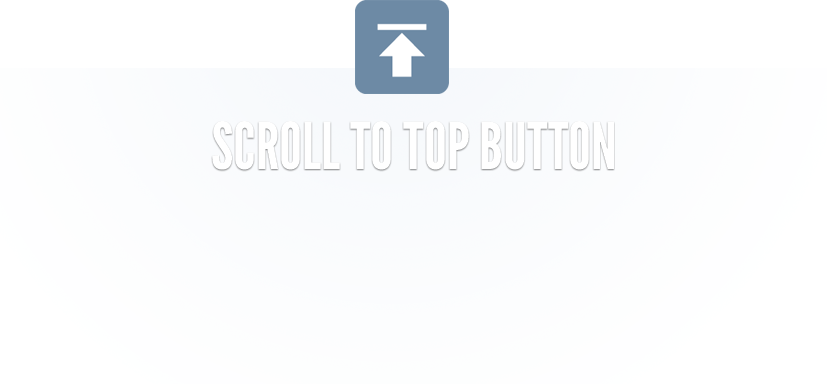
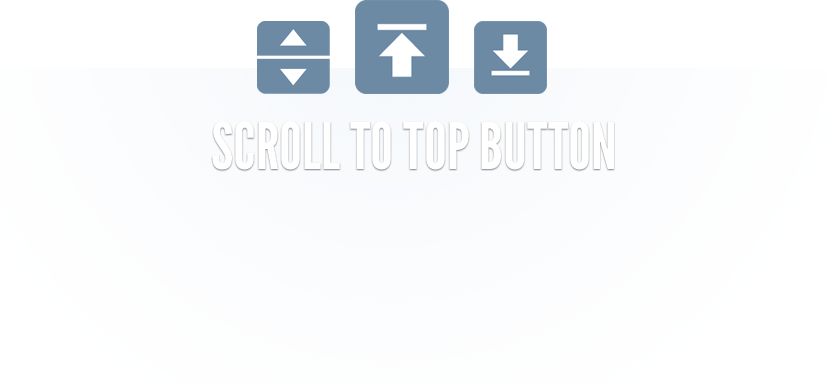
Version 4 Final

Changed region(s): [[0.3023, 0.0312, 0.4232, 0.25], [0.5744, 0.0312, 0.6651, 0.25]]

diff --git a/options.html b/options.html
@@ -213,17 +213,18 @@ function textChange(){
 	<div id="headerTitle"></div>
 	<div id="content">
 <Div id="welcome"><center><p id="header">Welcome to Version 4!</p></center>
-<strong><p class="version">What is new:</p>
+<strong><p class="version">New Stuff:</p>
 <ul class="features">
   <li>Dual button mode! Scroll to the top or the bottom!</li>
-  <li>You can now choose to put it on middle left or right</li>
-  <li>Keyboard shortcuts! Alt+Up Arrow or Alt+Down Arrow(Thanks to <a href="http://davidblasiak.tumblr.com/" target="_blank">David Blasiak</a>!)</li>
+  <li>You can now choose to put it on the middle left or right</li>
+  <li>Keyboard shortcuts! Alt+Up or Alt+Down (Thanks to <a href="http://davidblasiak.tumblr.com/" target="_blank">David Blasiak</a>!)</li>
   <li>Bug fixes</li>
-  <li>And more!</li>
+  <li>And more! <a href="http://scrolltotopbutton.tumblr.com/" target="_blank">Keep up to date on new features here!</a></li>
 </ul></strong>
 </div>
+<p>Please <a href="https://chrome.google.com/extensions/detail/chiikmhgllekggjhdfjhajkfdkcngplp" target="_blank">rate this extension</a> if you enjoy it! Or request a new feature! The feedback really means a lot to me!</p>
 <p>
-Scroll to Top/Bottom Button Options:
+Button:
 <select id="stbb" onChange="save_options();textChange();report(7)">
  <option value="off">Scroll to Top Button Only</option>
  <option value="flip">Flip between Top/Bottom</option>
@@ -308,12 +309,8 @@ Page Bounce:
 <script type="text/javascript">$(document).ready(textChange());</script>
 <button id="restore" onClick="defaults()"></button>
 <p id="status" style="float:left; font-size:.9em; line-height:.5; padding:3px 0 0 10px;"></p>
-<br/>
-<br/>
-<br/>
-<br/>
-<p>If you like this extension, please feel free to give a rating or request a feature <a href="https://chrome.google.com/extensions/detail/chiikmhgllekggjhdfjhajkfdkcngplp" target="_blank">here.</a></p>
-<br/>
+<p style="padding-top:60px;">Press Alt+Up or Alt+Down on a page to use STTB with just your keyboard!</p>
+<p>Do you speak multiple languages? Please help me translate this extension, <a href="mailto:sttb@codysherman.com">Email me!</a></p>
 <div id="bottomNav">
 <a href="http://scrolltotopbutton.tumblr.com/" target="_blank"><div id="release"></div></a>
 <a href="http://github.com/codysherman/Scroll-to-Top-Button-Extension" target="_blank"><div id="source"></div></a>

diff --git a/content_script.js b/content_script.js
@@ -31,6 +31,9 @@ if (window.location.href.indexOf('http://www.tumblr.com/') != -1) {
 	else if (window.location.href.indexOf('http://www.tumblr.com/likes') != -1) {
 		$('#return_to_top').remove();
 	}
+	else if (window.location.href.indexOf('http://www.tumblr.com/messages') != -1) {
+		$('#return_to_top').remove();
+	}
 }
 
 if ((window == top) && ($(window).height()<$(document).height())) {

diff --git a/style.css b/style.css
@@ -1,5 +1,6 @@
 body {
   background-image:url(images/pat.png);
+  //background-color:#0077E3;
   color: #434b52;
   text-shadow:#FFF 0px 1px 0px;
   font: normal .9em/1.3  "Helvetica Neue", "Lucida Grande", Helvetica, Arial, sans-serif;
@@ -55,6 +56,7 @@ outline: none;
 	background-position:0 -72px;
 }
 #bottomNav {
+	padding-top:10px;
 	height:32px;
 	width:600px;
 }
